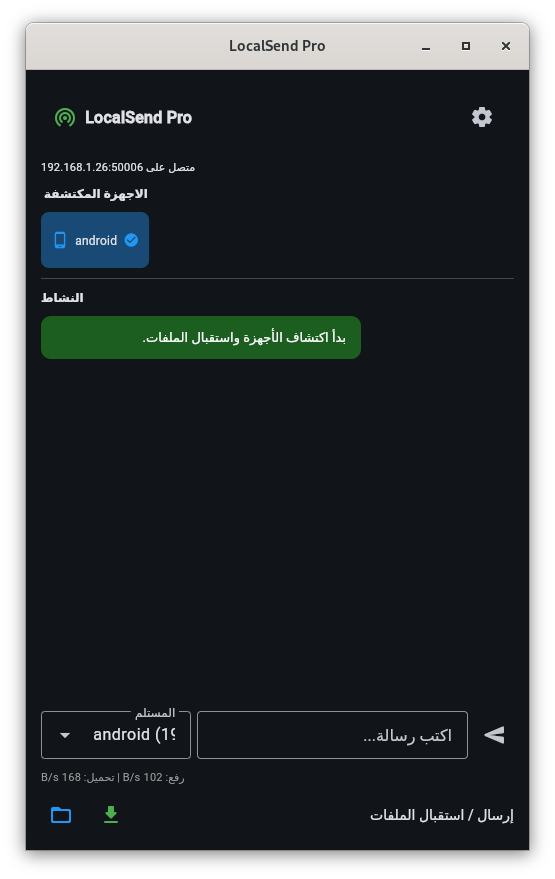
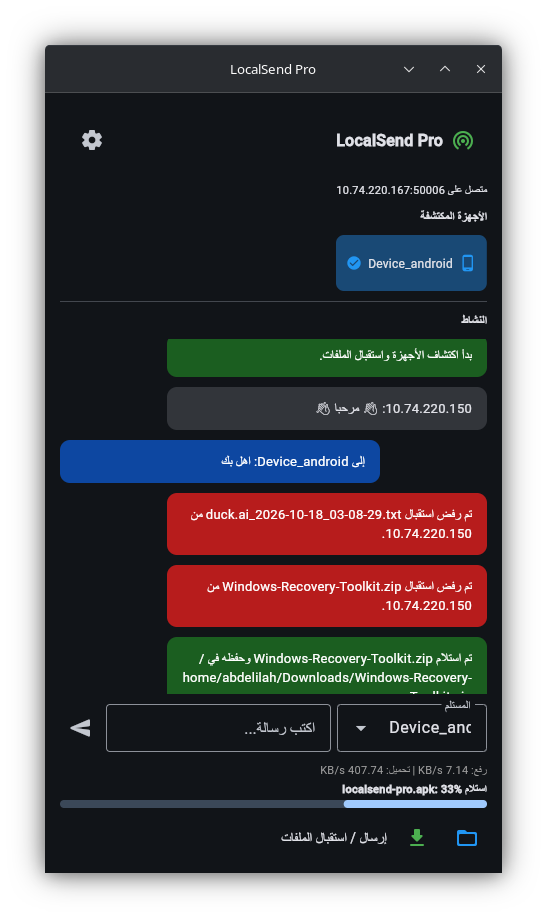
add files

diff --git a/README.md b/README.md
@@ -1,4 +1,23 @@
 # LocalSend Pro
+
+<div align="center">
+   
+[![Python](https://img.shields.io/badge/Python-3.14-blueviolet.svg?style=for-the-badge&logo=python&logoColor=white)](https://www.python.org/)
+[![GPL License](https://img.shields.io/badge/License-gplv3-BD0000.svg?style=for-the-badge&logo=GPL3)](https://github.com/hmidani-abdelilah/LocalSendpro/tree/main?tab=GPL-3.0-1-ov-file)
+[![linux](https://img.shields.io/badge/linux-Distribution-FCC624.svg?style=for-the-badge&logo=linux)](https://github.com/hmidani-abdelilah/LocalSendpro/releases)
+[![Windows](https://img.shields.io/badge/Windows-OS-blue.svg?style=for-the-badge&logo=wine)](https://github.com/hmidani-abdelilah/LocalSendpro/releases)
+[![Ubuntu](https://img.shields.io/badge/Ubuntu-PPA-E95420.svg?style=for-the-badge&logo=ubuntu)](https://launchpad.net/~kiraxq/+archive/ubuntu/ppa)
+[![Appimage](https://img.shields.io/badge/appimage-D39FB9.svg?style=for-the-badge&logo=appimage)](https://github.com/hmidani-abdelilah/LocalSendpro/releases)
+[![opendesktop](https://img.shields.io/badge/freedesktopdotorg-dA90D9.svg?style=for-the-badge&logo=freedesktopdotorg)](https://www.opendesktop.org/p/2379514)
+[![Bugs Report](https://img.shields.io/badge/Issues-Report%20a%20bug-important?style=for-the-badge&logo=github&logoColor=white)](https://github.com/hmidani-abdelilah/LocalSendpro/issues)<br>
+<a href="https://github.com/hmidani-abdelilah/LocalSendpro/tree/main/.github/workflows" target="_blank"><img alt="Build Status" src="https://raw.githubusercontent.com/hmidani-abdelilah/Media_Downloader/c198b34776a74979d43498c161e968d85e2084f7/.github/workflows/badge.svg" /></a><br>
+<a href="https://github.com/hmidani-abdelilah/LocalSendpro/releases/latest"><img alt="Get it on GitHub" src="https://raw.githubusercontent.com/hmidani-abdelilah/Media_Downloader/refs/heads/main/get-github.png" height="45" /></a>
+
+**[English](#-english) · [العربية](#-العربية)**
+
+
+</div>   
+
 <p align="center">
   <img src="https://raw.githubusercontent.com/hmidani-abdelilah/LocalSendpro/refs/heads/main/LocalSendPro-AR.png" alt="LocalSend Pro">
 </p>
